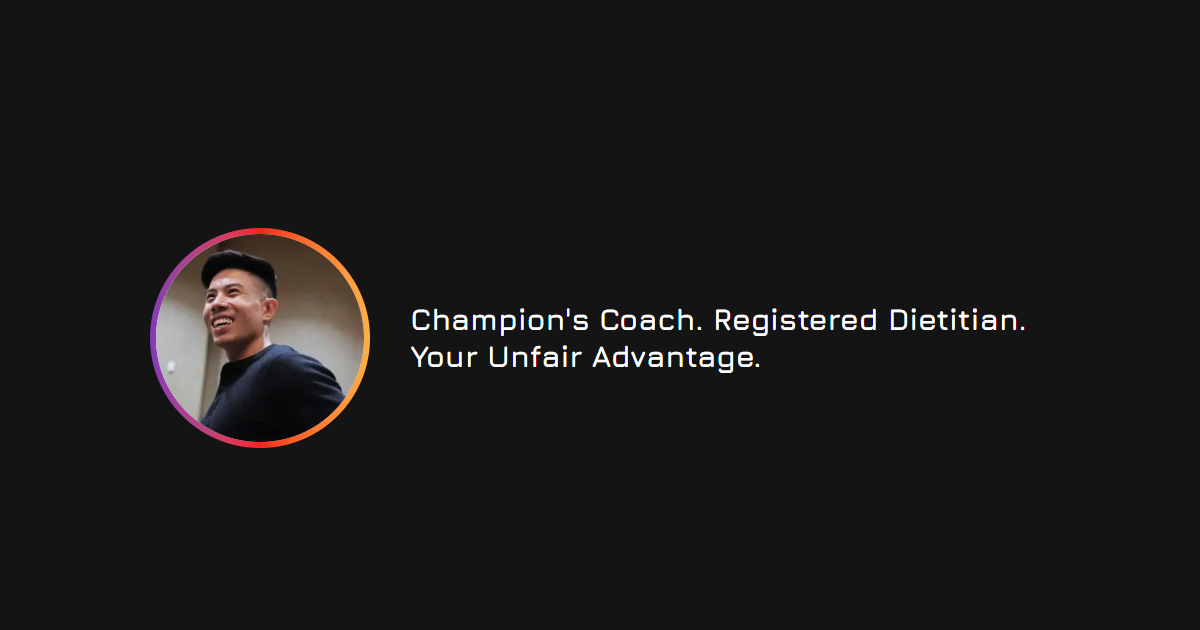
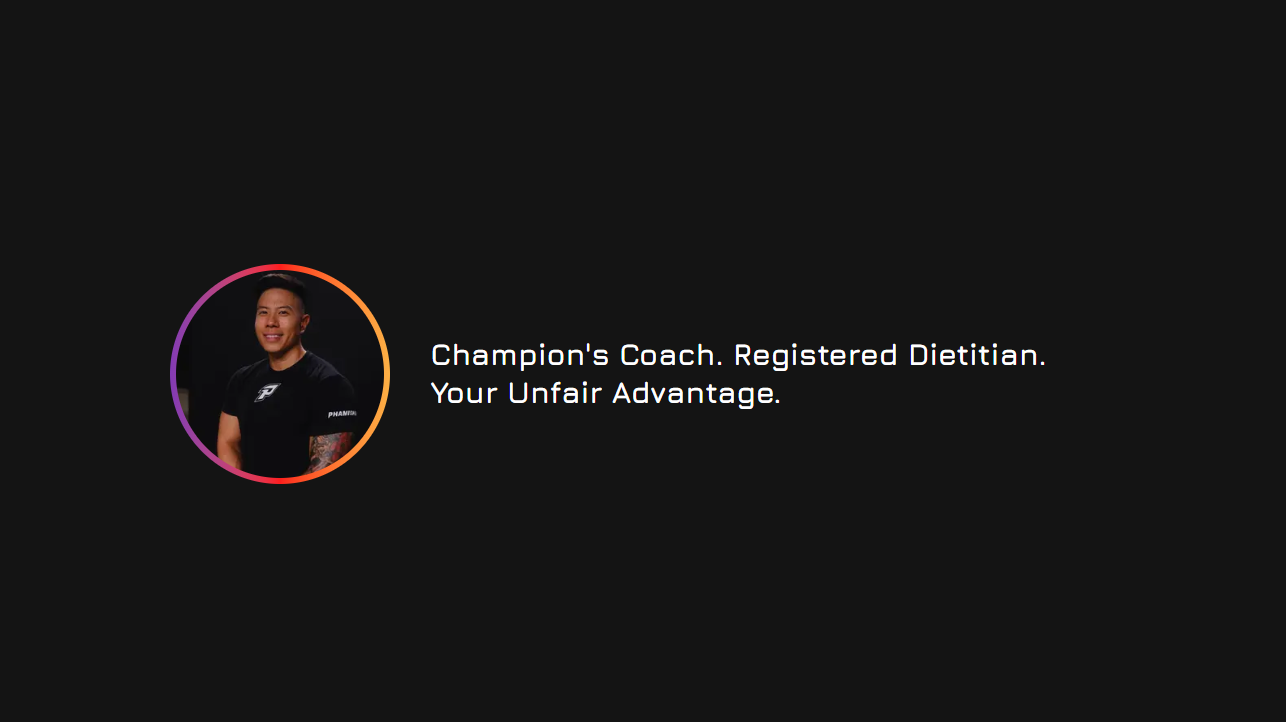
7/6 Update
- new hero pic
- text changes
- rates format
- embed dietitian badge

Changed region(s): [[0.1233, 0.3619, 0.3083, 0.7238], [0.3392, 0.4524, 0.8633, 0.6032]]

diff --git a/components/Footer.tsx b/components/Footer.tsx
@@ -1,11 +1,11 @@
-import Image from 'next/image';
-import Link from 'next/link';
+import Image from "next/image";
+import Link from "next/link";
 
 export default function Footer() {
   return (
-    <footer className="w-full bg-[#1f1f1f] text-white px-5 py-4 flex flex-wrap items-center justify-between mt-24 relative bottom-0">
+    <footer className="w-full bg-[#1f1f1f] text-white px-5 py-6 flex flex-col md:flex-row items-center justify-between gap-6 mt-24 relative bottom-0">
       {/* Left Side */}
-      <div className="flex items-center gap-3 ml-[400px] max-[1000px]:ml-0">
+      <div className="flex items-center gap-3 md:ml-[400px] max-[1000px]:ml-0">
         <Link href="/">
           <Image
             src="/logo.png"
@@ -15,9 +15,27 @@ export default function Footer() {
             className="w-auto h-auto object-contain"
           />
         </Link>
-        <span className="text-[1.1rem] font-semibold">Phamished 2026</span>
+
+        <span className="text-[1.1rem] font-semibold">
+          Phamished 2026
+        </span>
       </div>
 
+      <div className="flex items-center md:mr-[400px] max-[1000px]:mr-0">
+        <Link
+          href="https://www.credly.com/badges/a7bd63b8-007c-4877-9a50-88f13e574000"
+          target="_blank"
+          rel="noopener noreferrer"
+        >
+          <Image
+            src="/credly.png"
+            alt="Registered Dietitian Nutritionist Badge"
+            width={70}
+            height={70}
+            className="object-contain hover:scale-105 transition-transform duration-300"
+          />
+        </Link>
+      </div>
     </footer>
   );
 }

diff --git a/app/page.tsx b/app/page.tsx
@@ -126,7 +126,7 @@ export default function HomePage() {
           </h2>
 
           <p className="text-white text-lg sm:text-xl lg:text-2xl leading-relaxed">
-            Services provided include (and are not limited to).. <br/> <br/>
+            Services provided include (and are not limited to): <br/> <br/>
             • Nutrition Goal Setting <br/>
             • Prescribed Calories & Macronutrients <br/>
             • Meal Planning <br/>
@@ -154,17 +154,17 @@ export default function HomePage() {
           </h2>
 
           <p className="text-white text-lg sm:text-xl lg:text-2xl leading-relaxed">
-            My standard individual adult nutrition coaching rate is $524 USD upfront for the first three months and $169 per month thereafter.
+            My standard individual adult nutrition coaching rate is $524 USD upfront for the first three months and $169/month thereafter.
             
             <br/><br/>
 
-            Discount for qualified students, educators, military, first responders, and healthcare workers:  $474 USD upfront for the first 
-            three months and $159/mo thereafter. 
+            ***Discount for qualified students, educators, military, first responders, and healthcare workers: $474 USD upfront for 
+            the first three months and $159/month thereafter.
             
             <br/><br/>
 
-            This is a fixed rate and will not change as long as we continue working together. 
-            Accepted payment methods are Stripe (accepts credit card and international payments), Venmo, and Zelle.
+            <u>This is a fixed rate and will not change as long as we continue working together. 
+            Accepted payment methods are Stripe (accepts credit card and international payments), Venmo, and Zelle.</u>
           </p>
 
           <br/><br/>

diff --git a/components/Hero.tsx b/components/Hero.tsx
@@ -68,7 +68,7 @@ export default function Hero() {
         >
           <div className="w-full h-full rounded-full overflow-hidden bg-white">
             <Image
-              src="/pfp.png"
+              src="/hero.jpg"
               alt="Profile"
               width={250}
               height={250}